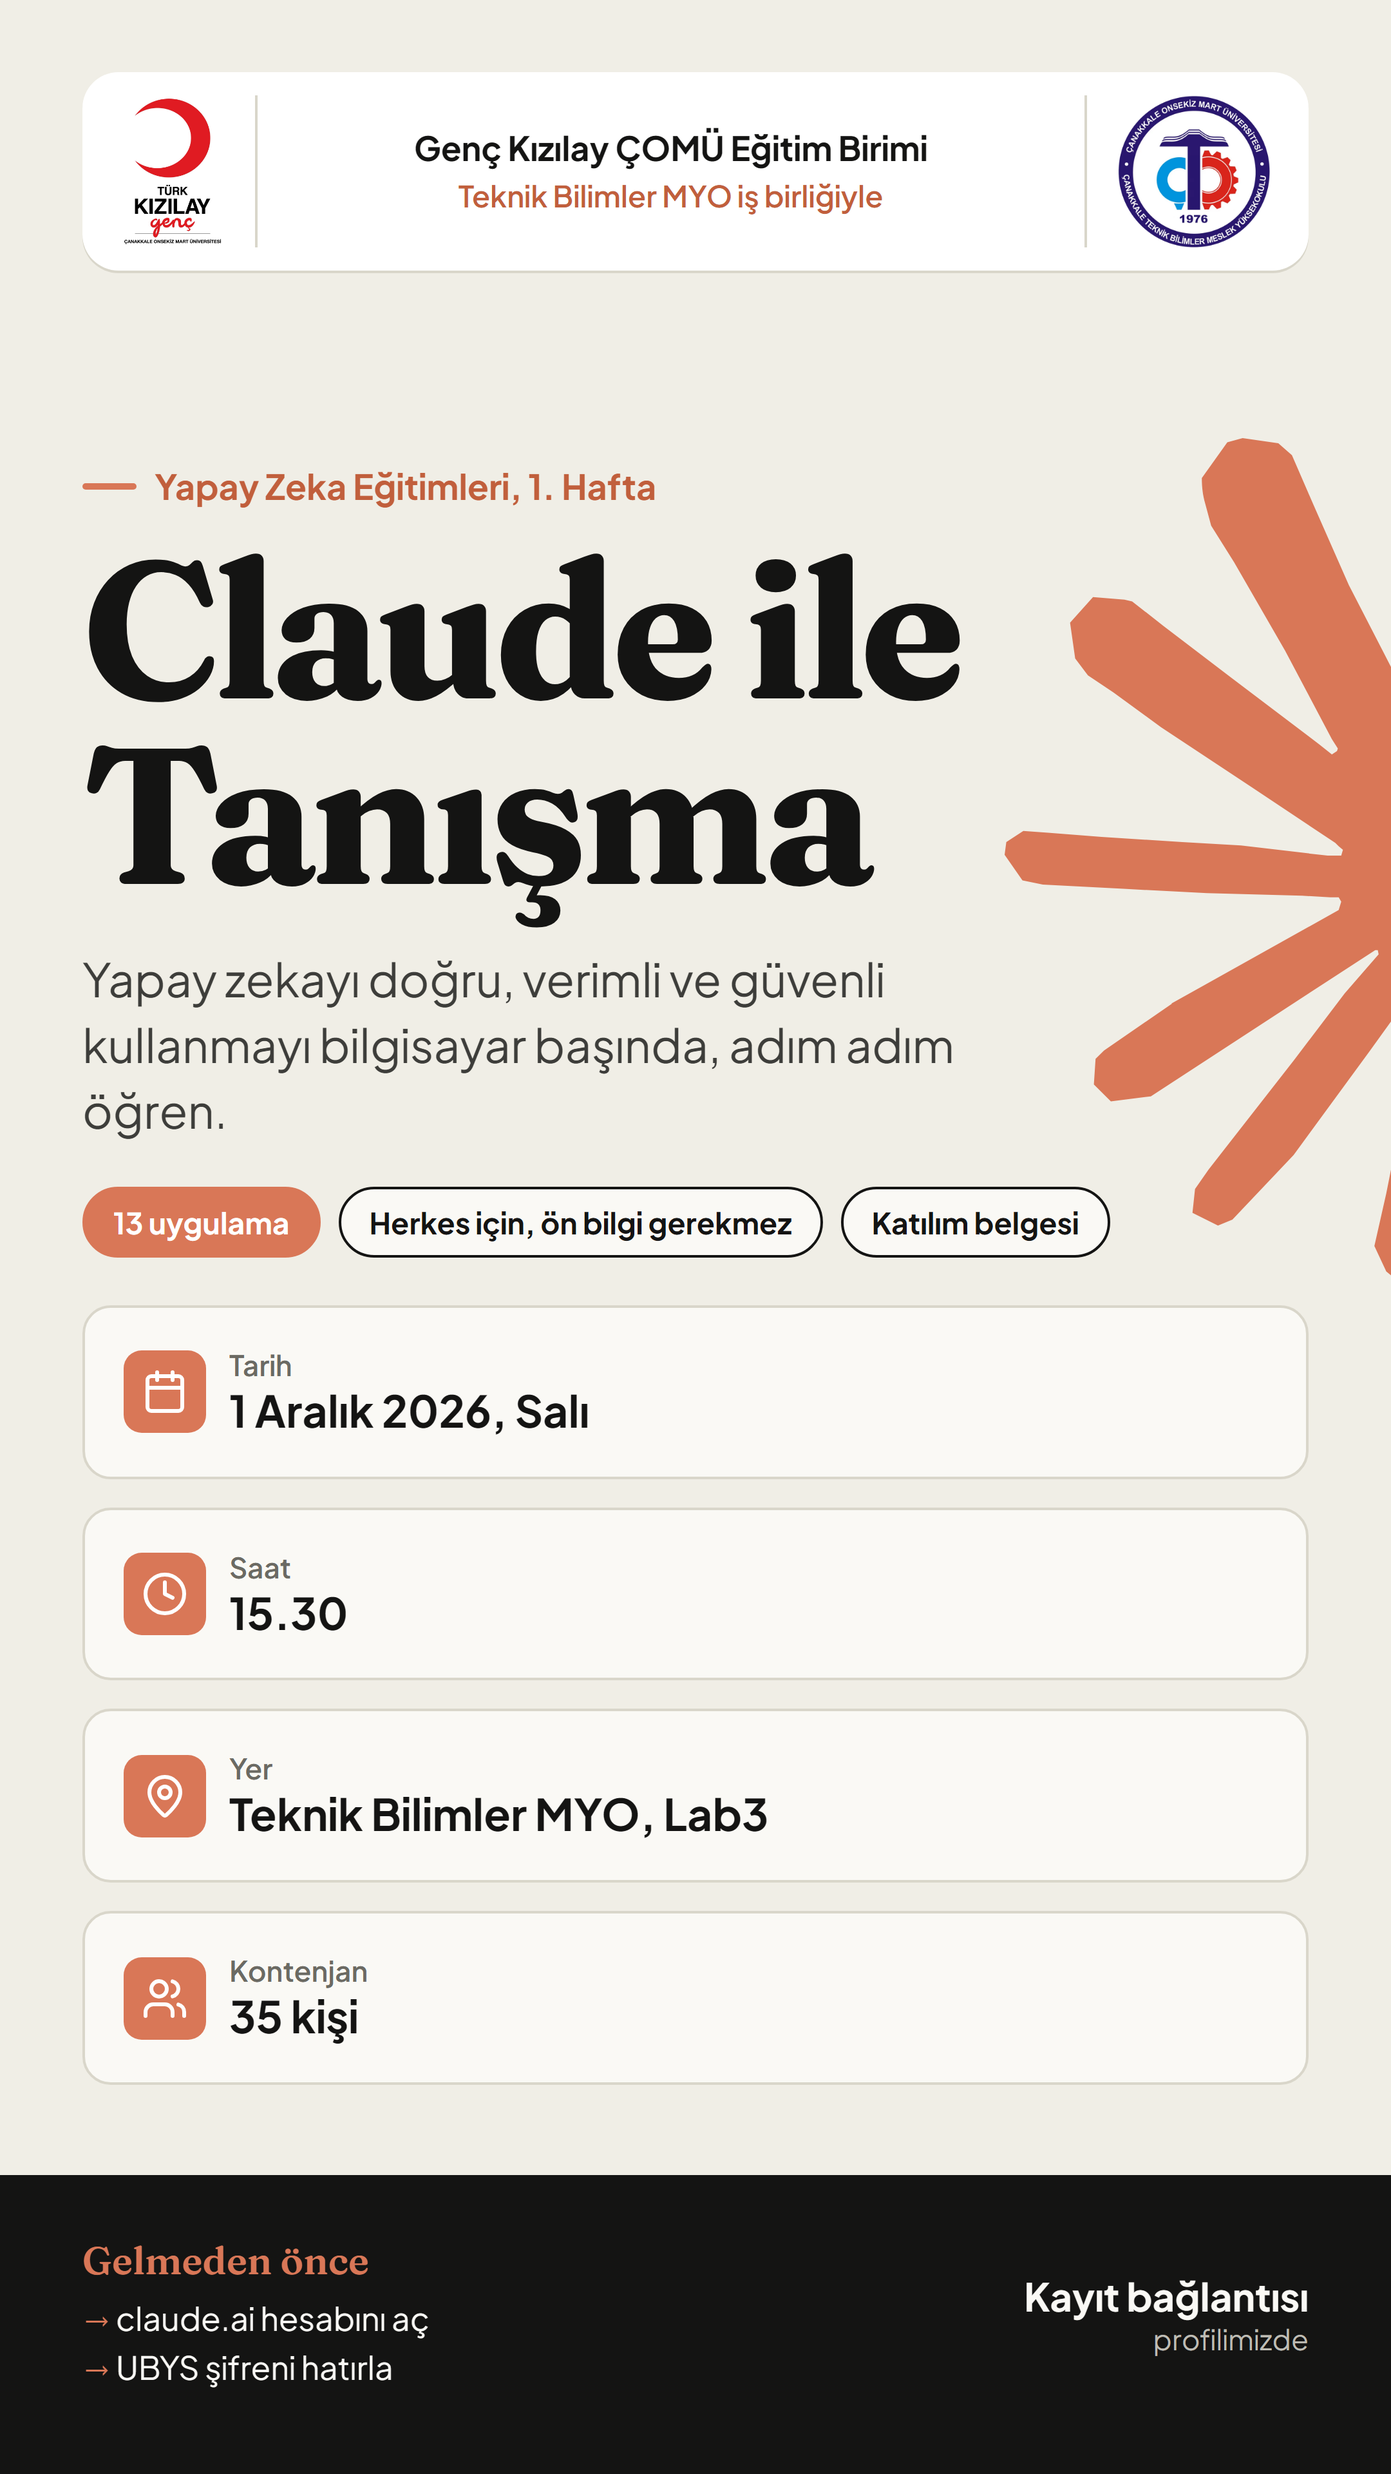
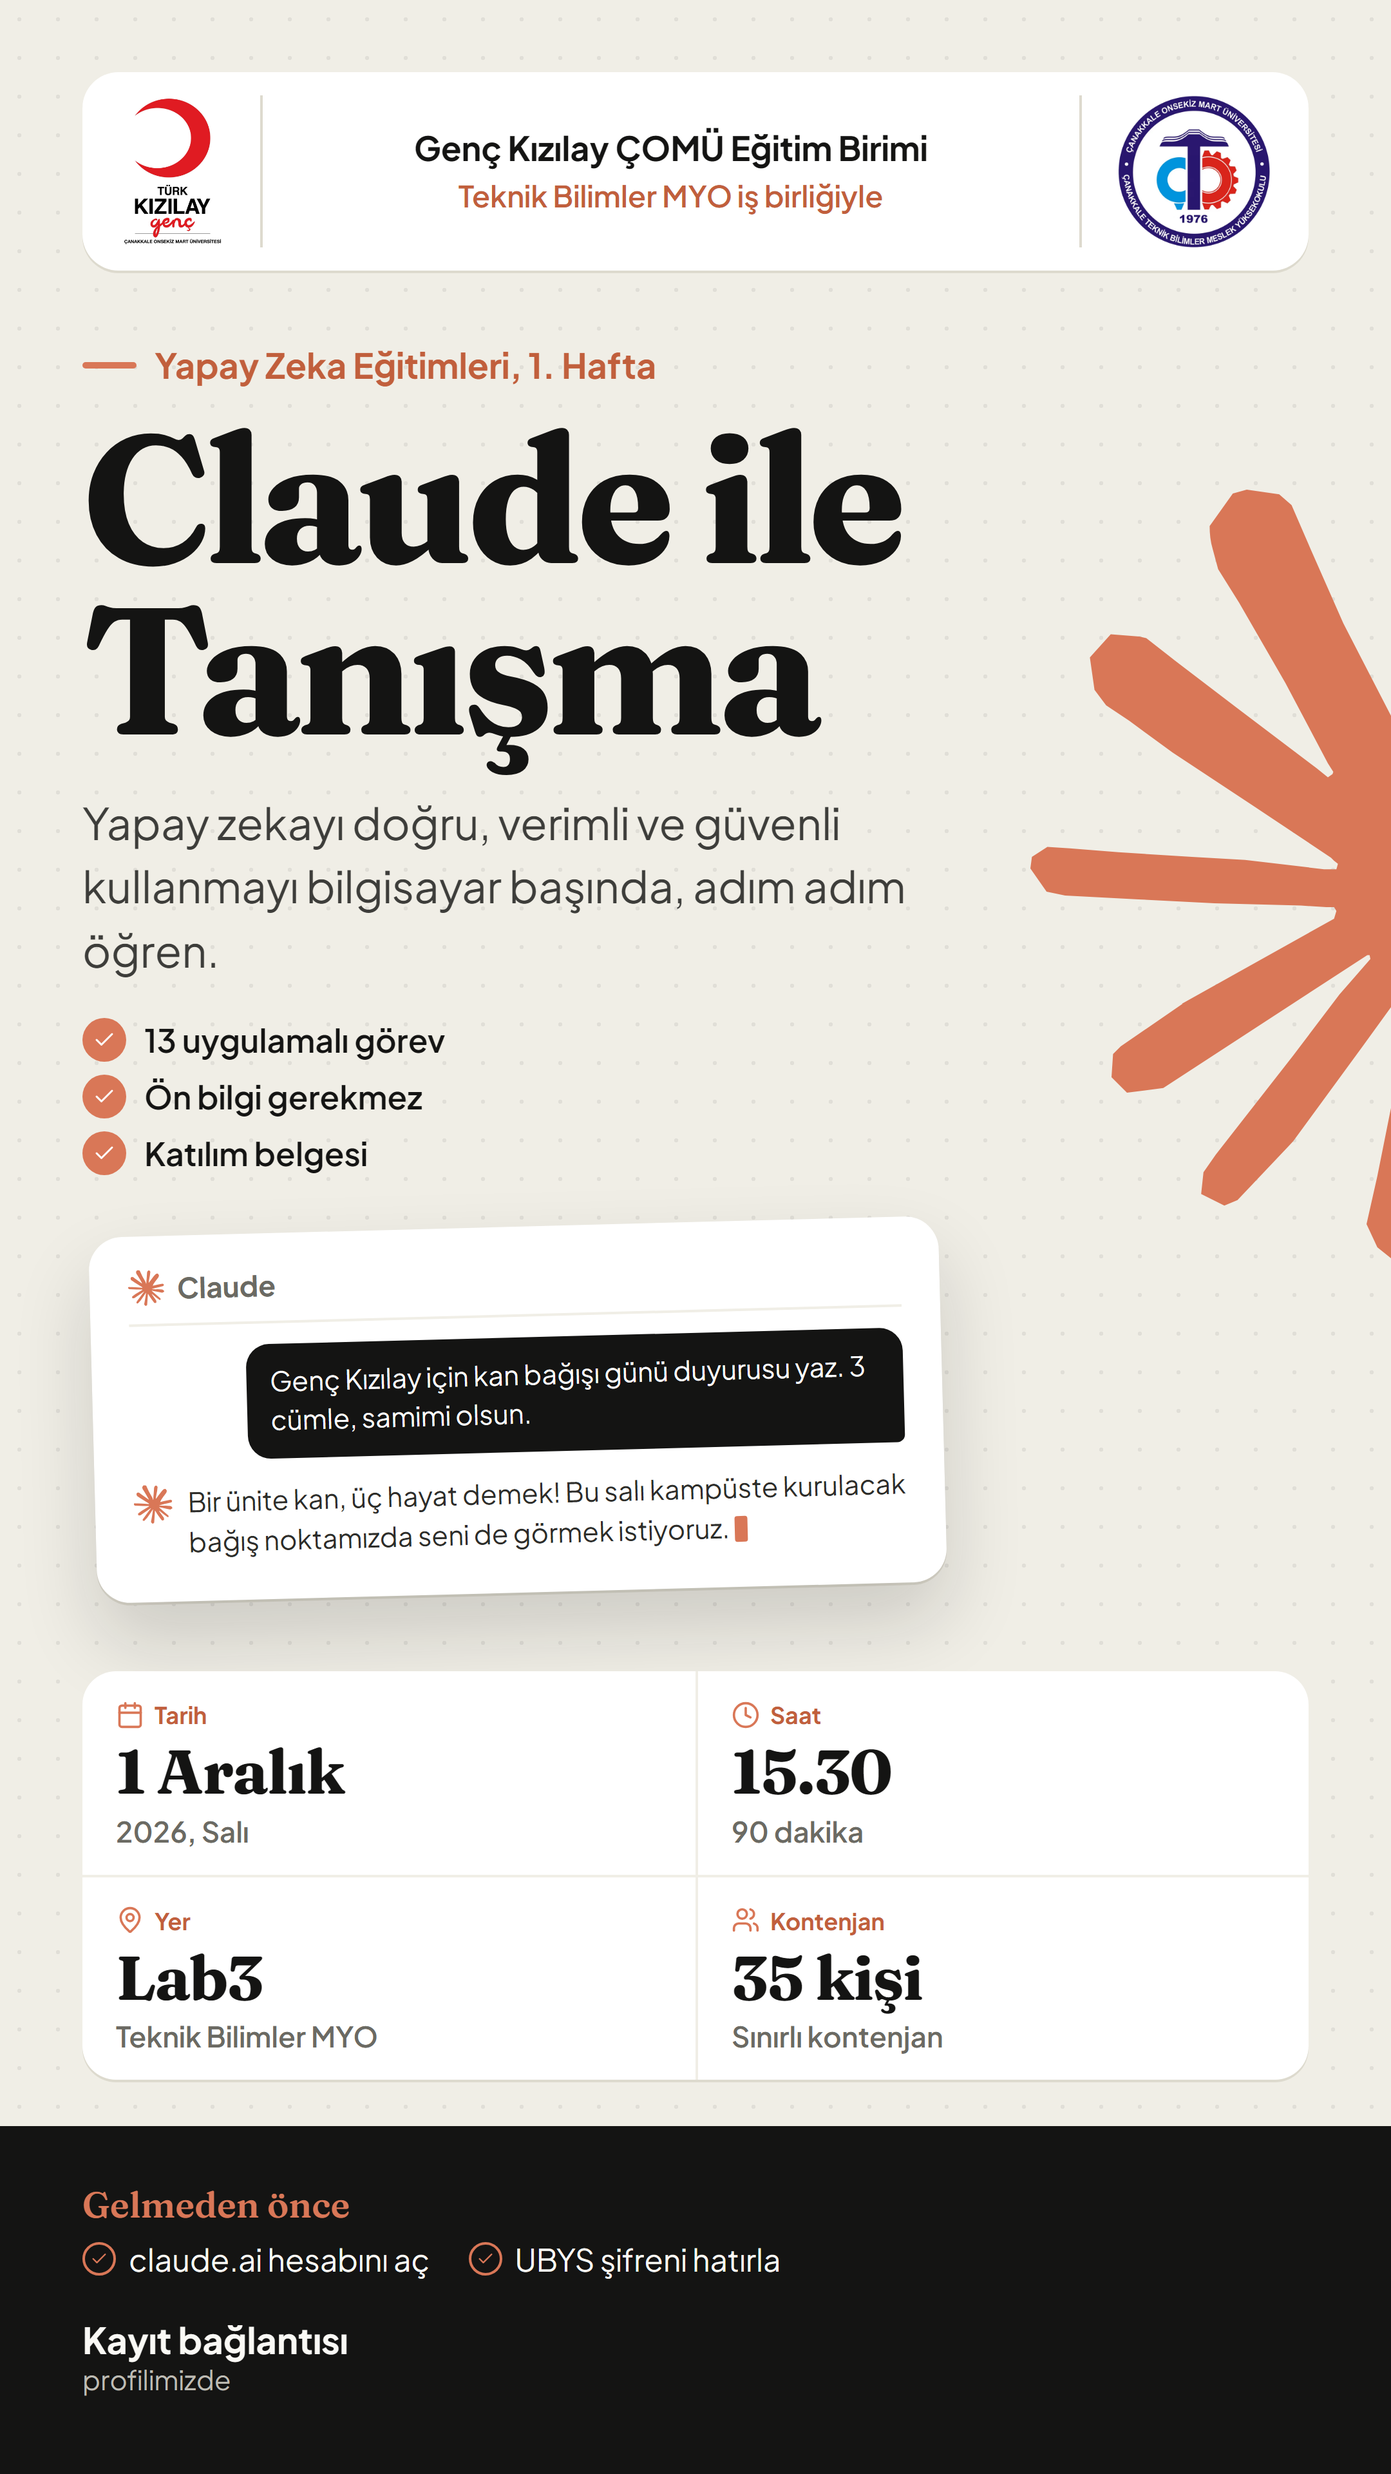
Afiş tasarımı geliştirildi: sohbet kartı, bilgi panosu, nokta doku

diff --git a/duyuru/afis/afis.html b/duyuru/afis/afis.html
@@ -11,65 +11,96 @@
       --krem-acik: #FAF9F5;
       --koyu: #141413;
       --gri: #6B6A63;
-      --cizgi: #D9D6CA;
+      --cizgi: #DDDACE;
       --turuncu: #D97757;
       --turuncu-koyu: #C15F3C;
       --baslik: 'Fraunces', Georgia, serif;
       --govde: 'Plus Jakarta Sans', 'Segoe UI', sans-serif;
-      --G: 1080px;
-      --Y: 1350px;
     }
-    body.hikaye { --Y: 1920px; }
     * { box-sizing: border-box; margin: 0; padding: 0; }
     body { background: #777; font-family: var(--govde); color: var(--koyu); }
-    .afis { width: var(--G); height: var(--Y); position: relative; overflow: hidden; background: var(--krem); display: flex; flex-direction: column; padding: 56px 64px 0; }
 
-    /* Büyük Claude yıldızı: sağ üstten taşar */
-    .yildiz { position: absolute; width: 640px; height: 640px; right: -300px; top: 250px; }
-    body.hikaye .yildiz { width: 660px; height: 660px; right: -360px; top: 340px; }
+    .afis {
+      width: 1080px; height: 1350px; position: relative; overflow: hidden;
+      background-color: var(--krem);
+      background-image: radial-gradient(rgba(20, 20, 19, 0.07) 1.6px, transparent 1.7px);
+      background-size: 30px 30px;
+      display: flex; flex-direction: column; padding: 56px 64px 0;
+    }
+    body.hikaye .afis { height: 1920px; }
 
-    /* Logo şeridi */
-    .logolar { position: relative; z-index: 2; display: flex; align-items: center; justify-content: space-between; gap: 24px; background: #fff; border-radius: 28px; padding: 18px 30px; box-shadow: 0 2px 0 var(--cizgi); }
+    /* ---------- Logo şeridi ---------- */
+    .logolar { position: relative; z-index: 3; display: flex; align-items: center; gap: 28px; background: #fff; border-radius: 28px; padding: 18px 30px; box-shadow: 0 2px 0 var(--cizgi); }
     .logolar img { height: 118px; width: auto; display: block; }
     .logolar p { flex: 1; align-self: stretch; display: flex; flex-direction: column; justify-content: center; gap: 6px; text-align: center; border-left: 2px solid var(--cizgi); border-right: 2px solid var(--cizgi); padding: 0 18px; }
-    .logolar p strong { color: var(--koyu); font-size: 26px; font-weight: 700; line-height: 1.25; }
+    .logolar p strong { font-size: 26px; font-weight: 700; line-height: 1.25; }
     .logolar p span { color: var(--turuncu-koyu); font-size: 23px; font-weight: 600; line-height: 1.25; }
 
-    .govde { position: relative; z-index: 2; flex: 1; display: flex; flex-direction: column; padding-top: 74px; }
-    body.hikaye .govde { padding-top: 150px; }
-    .ust { display: inline-flex; align-items: center; gap: 14px; font-size: 27px; font-weight: 700; color: var(--turuncu-koyu); margin-bottom: 22px; }
+    /* ---------- Kahraman alanı ---------- */
+    .kahraman { position: relative; z-index: 2; margin-top: 64px; }
+    .ust { display: inline-flex; align-items: center; gap: 14px; font-size: 27px; font-weight: 700; color: var(--turuncu-koyu); margin-bottom: 20px; }
     .ust::before { content: ""; width: 42px; height: 5px; border-radius: 3px; background: var(--turuncu); }
-    h1 { font-family: var(--baslik); font-weight: 700; font-size: 132px; line-height: 0.96; letter-spacing: -0.035em; max-width: 760px; }
-    body.hikaye h1 { font-size: 150px; }
-    .alt { font-size: 32px; line-height: 1.42; color: #3D3D3A; max-width: 600px; margin-top: 30px; }
-    body.hikaye .alt { font-size: 36px; max-width: 700px; }
+    h1 { font-family: var(--baslik); font-weight: 700; font-size: 128px; line-height: 0.95; letter-spacing: -0.035em; }
+    .alt { font-size: 30px; line-height: 1.45; color: #3D3D3A; max-width: 520px; margin-top: 28px; }
+    .ozellik { list-style: none; margin-top: 28px; display: flex; flex-direction: column; gap: 12px; width: max-content; }
+    .ozellik li { display: flex; align-items: center; gap: 14px; font-size: 25px; font-weight: 600; }
+    .ozellik li i { width: 34px; height: 34px; flex: none; border-radius: 50%; background: var(--turuncu); position: relative; }
+    .ozellik li i::after { content: ""; position: absolute; inset: 8px; background: #fff; -webkit-mask: url(../../ortak/ikonlar/check.svg) center / contain no-repeat; mask: url(../../ortak/ikonlar/check.svg) center / contain no-repeat; }
 
-    .cipler { list-style: none; display: flex; flex-wrap: wrap; gap: 14px; margin-top: 34px; }
-    .cipler li { font-size: 23px; font-weight: 700; padding: 11px 22px; border-radius: 999px; background: var(--krem-acik); border: 2px solid var(--koyu); }
-    .cipler li.vurgu { background: var(--turuncu); border-color: var(--turuncu); color: #fff; }
+    /* ---------- Claude yıldızı ve sohbet kartı ---------- */
+    .yildiz { position: absolute; z-index: 1; width: 560px; height: 560px; right: -170px; top: 330px; }
+    .sohbet {
+      position: absolute; z-index: 2; right: 56px; top: 600px; width: 430px;
+      background: #fff; border-radius: 26px; padding: 22px 24px 26px;
+      box-shadow: 0 30px 60px rgba(20, 20, 19, 0.16), 0 2px 0 var(--cizgi);
+      transform: rotate(2.5deg);
+    }
+    .sohbet-ust { display: flex; align-items: center; gap: 10px; font-size: 19px; font-weight: 700; color: var(--gri); padding-bottom: 14px; border-bottom: 2px solid #F0EEE6; margin-bottom: 16px; }
+    .sohbet-ust img { width: 28px; height: 28px; }
+    .balon-sen { margin-left: 48px; background: var(--koyu); color: #fff; font-size: 19px; line-height: 1.45; padding: 14px 18px; border-radius: 18px 18px 6px 18px; }
+    .balon-claude { display: flex; gap: 12px; margin-top: 16px; }
+    .balon-claude img { width: 30px; height: 30px; flex: none; margin-top: 2px; }
+    .balon-claude p { font-size: 19px; line-height: 1.5; color: #2D2D2A; }
+    .imlec { display: inline-block; width: 10px; height: 20px; background: var(--turuncu); vertical-align: -3px; margin-left: 4px; border-radius: 2px; }
 
-    .bilgi { display: grid; grid-template-columns: 1fr 1fr; gap: 16px; margin-top: auto; margin-bottom: 40px; }
-    body.hikaye .bilgi { margin-bottom: 70px; gap: 22px; grid-template-columns: 1fr; }
-    body.hikaye .kutu b { font-size: 34px; }
-    body.hikaye .kutu small { font-size: 22px; }
-    body.hikaye .ikon { width: 64px; height: 64px; }
-    body.hikaye .ikon i { width: 36px; height: 36px; }
-    .kutu { background: var(--krem-acik); border: 2px solid var(--cizgi); border-radius: 22px; padding: 22px 26px; display: flex; gap: 18px; align-items: center; }
-    body.hikaye .kutu { padding: 30px 30px; }
-    .ikon { width: 52px; height: 52px; flex: none; border-radius: 14px; background: var(--turuncu); display: flex; align-items: center; justify-content: center; }
-    .ikon i { width: 30px; height: 30px; background: #fff; -webkit-mask: var(--i) center / contain no-repeat; mask: var(--i) center / contain no-repeat; }
-    .kutu small { display: block; font-size: 19px; font-weight: 600; color: var(--gri); margin-bottom: 2px; }
-    .kutu b { font-size: 27px; font-weight: 700; line-height: 1.2; }
+    /* ---------- Bilgi panosu ---------- */
+    .pano { position: relative; z-index: 2; margin-top: auto; margin-bottom: 36px; display: grid; grid-template-columns: 1.15fr 0.9fr 1fr 0.95fr; background: #fff; border-radius: 26px; box-shadow: 0 2px 0 var(--cizgi); }
+    .pano div { padding: 26px 24px 24px; border-left: 2px solid #F0EEE6; }
+    .pano div:first-child { border-left: 0; }
+    .pano small { display: flex; align-items: center; gap: 8px; font-size: 18px; font-weight: 700; color: var(--turuncu-koyu); margin-bottom: 8px; }
+    .pano small i { width: 22px; height: 22px; background: var(--turuncu); -webkit-mask: var(--i) center / contain no-repeat; mask: var(--i) center / contain no-repeat; }
+    .pano b { display: block; font-family: var(--baslik); font-size: 44px; font-weight: 700; line-height: 1.05; letter-spacing: -0.02em; }
+    .pano span { display: block; font-size: 19px; color: var(--gri); margin-top: 6px; font-weight: 600; }
 
+    /* ---------- Alt bant ---------- */
     .bant { position: relative; z-index: 2; margin: 0 -64px; background: var(--koyu); color: var(--krem-acik); padding: 30px 64px 36px; display: flex; align-items: center; justify-content: space-between; gap: 30px; }
-    body.hikaye .bant { padding: 48px 64px 64px; }
-    .bant h2 { font-family: var(--baslik); font-weight: 600; font-size: 30px; color: var(--turuncu); margin-bottom: 8px; }
-    .bant ul { list-style: none; }
-    .bant li { font-size: 25px; line-height: 1.5; }
-    .bant li::before { content: "→ "; color: var(--turuncu); font-weight: 700; }
+    .bant h2 { font-family: var(--baslik); font-weight: 600; font-size: 28px; color: var(--turuncu); margin-bottom: 10px; }
+    .bant ul { list-style: none; display: flex; gap: 30px; }
+    .bant li { display: flex; align-items: center; gap: 10px; font-size: 24px; }
+    .bant li i { width: 26px; height: 26px; border-radius: 50%; border: 2px solid var(--turuncu); position: relative; flex: none; }
+    .bant li i::after { content: ""; position: absolute; inset: 4px; background: var(--turuncu); -webkit-mask: url(../../ortak/ikonlar/check.svg) center / contain no-repeat; mask: url(../../ortak/ikonlar/check.svg) center / contain no-repeat; }
     .kayit { flex: none; text-align: right; }
-    .kayit b { display: block; font-size: 30px; font-weight: 700; }
-    .kayit span { font-size: 22px; color: #BDBBB3; }
+    .kayit b { display: block; font-size: 28px; font-weight: 700; }
+    .kayit span { font-size: 21px; color: #BDBBB3; }
+
+    /* ---------- Hikâye (9:16) ---------- */
+    body.hikaye .kahraman { margin-top: 56px; }
+    body.hikaye h1 { font-size: 140px; }
+    body.hikaye .alt { font-size: 34px; max-width: 640px; }
+    body.hikaye .yildiz { width: 600px; height: 600px; right: -320px; top: 380px; }
+    body.hikaye .sohbet { position: relative; top: auto; right: auto; align-self: flex-start; margin-top: 40px; margin-left: 8px; width: 660px; transform: rotate(-1.5deg); padding: 26px 30px 30px; }
+    body.hikaye .sohbet-ust { font-size: 22px; }
+    body.hikaye .balon-sen, body.hikaye .balon-claude p { font-size: 21px; }
+    body.hikaye .balon-sen { margin-left: 90px; }
+    body.hikaye .ozellik { gap: 10px; }
+    body.hikaye .pano { grid-template-columns: 1fr 1fr; }
+    body.hikaye .pano div:nth-child(3) { border-left: 0; }
+    body.hikaye .pano div:nth-child(n+3) { border-top: 2px solid #F0EEE6; }
+    body.hikaye .pano b { font-size: 48px; }
+    body.hikaye .pano div { padding: 22px 26px 20px; }
+    body.hikaye .pano span { font-size: 22px; }
+    body.hikaye .bant { padding: 44px 64px 60px; flex-direction: column; align-items: flex-start; }
+    body.hikaye .kayit { text-align: left; }
   </style>
 </head>
 <body>
@@ -82,30 +113,39 @@
       <img src="../../gorseller/logolar/tbmyo.png" alt="Çanakkale Teknik Bilimler MYO logosu">
     </header>
 
-    <main class="govde">
+    <section class="kahraman">
       <p class="ust">Yapay Zeka Eğitimleri, 1. Hafta</p>
-      <h1>Claude ile Tanışma</h1>
+      <h1>Claude ile<br>Tanışma</h1>
       <p class="alt">Yapay zekayı doğru, verimli ve güvenli kullanmayı bilgisayar başında, adım adım öğren.</p>
-      <ul class="cipler">
-        <li class="vurgu">13 uygulama</li>
-        <li>Herkes için, ön bilgi gerekmez</li>
-        <li>Katılım belgesi</li>
+      <ul class="ozellik">
+        <li><i></i>13 uygulamalı görev</li>
+        <li><i></i>Ön bilgi gerekmez</li>
+        <li><i></i>Katılım belgesi</li>
       </ul>
+    </section>
 
-      <section class="bilgi">
-        <div class="kutu"><span class="ikon"><i style="--i: url(../../ortak/ikonlar/calendar.svg)"></i></span><div><small>Tarih</small><b>1 Aralık 2026, Salı</b></div></div>
-        <div class="kutu"><span class="ikon"><i style="--i: url(../../ortak/ikonlar/clock.svg)"></i></span><div><small>Saat</small><b>15.30</b></div></div>
-        <div class="kutu"><span class="ikon"><i style="--i: url(../../ortak/ikonlar/map-pin.svg)"></i></span><div><small>Yer</small><b>Teknik Bilimler MYO, Lab3</b></div></div>
-        <div class="kutu"><span class="ikon"><i style="--i: url(../../ortak/ikonlar/users.svg)"></i></span><div><small>Kontenjan</small><b>35 kişi</b></div></div>
-      </section>
-    </main>
+    <div class="sohbet" aria-hidden="true">
+      <div class="sohbet-ust"><img src="../../gorseller/logolar/claude.svg" alt="">Claude</div>
+      <p class="balon-sen">Genç Kızılay için kan bağışı günü duyurusu yaz. 3 cümle, samimi olsun.</p>
+      <div class="balon-claude">
+        <img src="../../gorseller/logolar/claude.svg" alt="">
+        <p>Bir ünite kan, üç hayat demek! Bu salı kampüste kurulacak bağış noktamızda seni de görmek istiyoruz.<span class="imlec"></span></p>
+      </div>
+    </div>
+
+    <section class="pano">
+      <div><small><i style="--i: url(../../ortak/ikonlar/calendar.svg)"></i>Tarih</small><b>1 Aralık</b><span>2026, Salı</span></div>
+      <div><small><i style="--i: url(../../ortak/ikonlar/clock.svg)"></i>Saat</small><b>15.30</b><span>90 dakika</span></div>
+      <div><small><i style="--i: url(../../ortak/ikonlar/map-pin.svg)"></i>Yer</small><b>Lab3</b><span>Teknik Bilimler MYO</span></div>
+      <div><small><i style="--i: url(../../ortak/ikonlar/users.svg)"></i>Kontenjan</small><b>35 kişi</b><span>Sınırlı kontenjan</span></div>
+    </section>
 
     <footer class="bant">
       <div>
         <h2>Gelmeden önce</h2>
         <ul>
-          <li>claude.ai hesabını aç</li>
-          <li>UBYS şifreni hatırla</li>
+          <li><i></i>claude.ai hesabını aç</li>
+          <li><i></i>UBYS şifreni hatırla</li>
         </ul>
       </div>
       <div class="kayit"><b>Kayıt bağlantısı</b><span>profilimizde</span></div>
